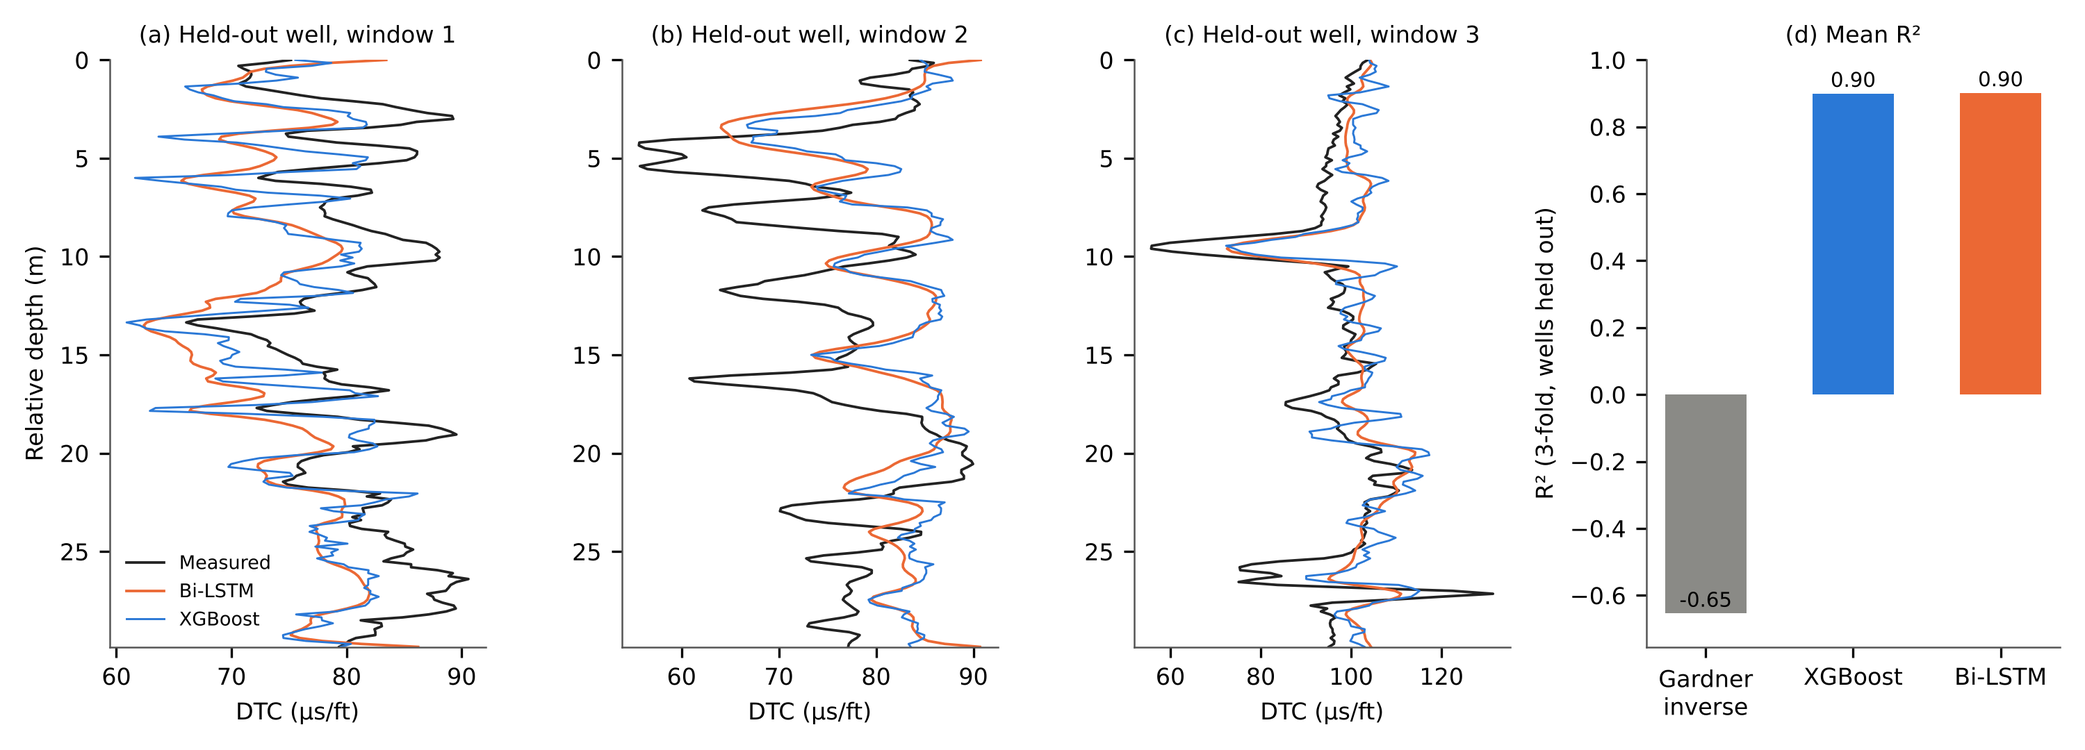
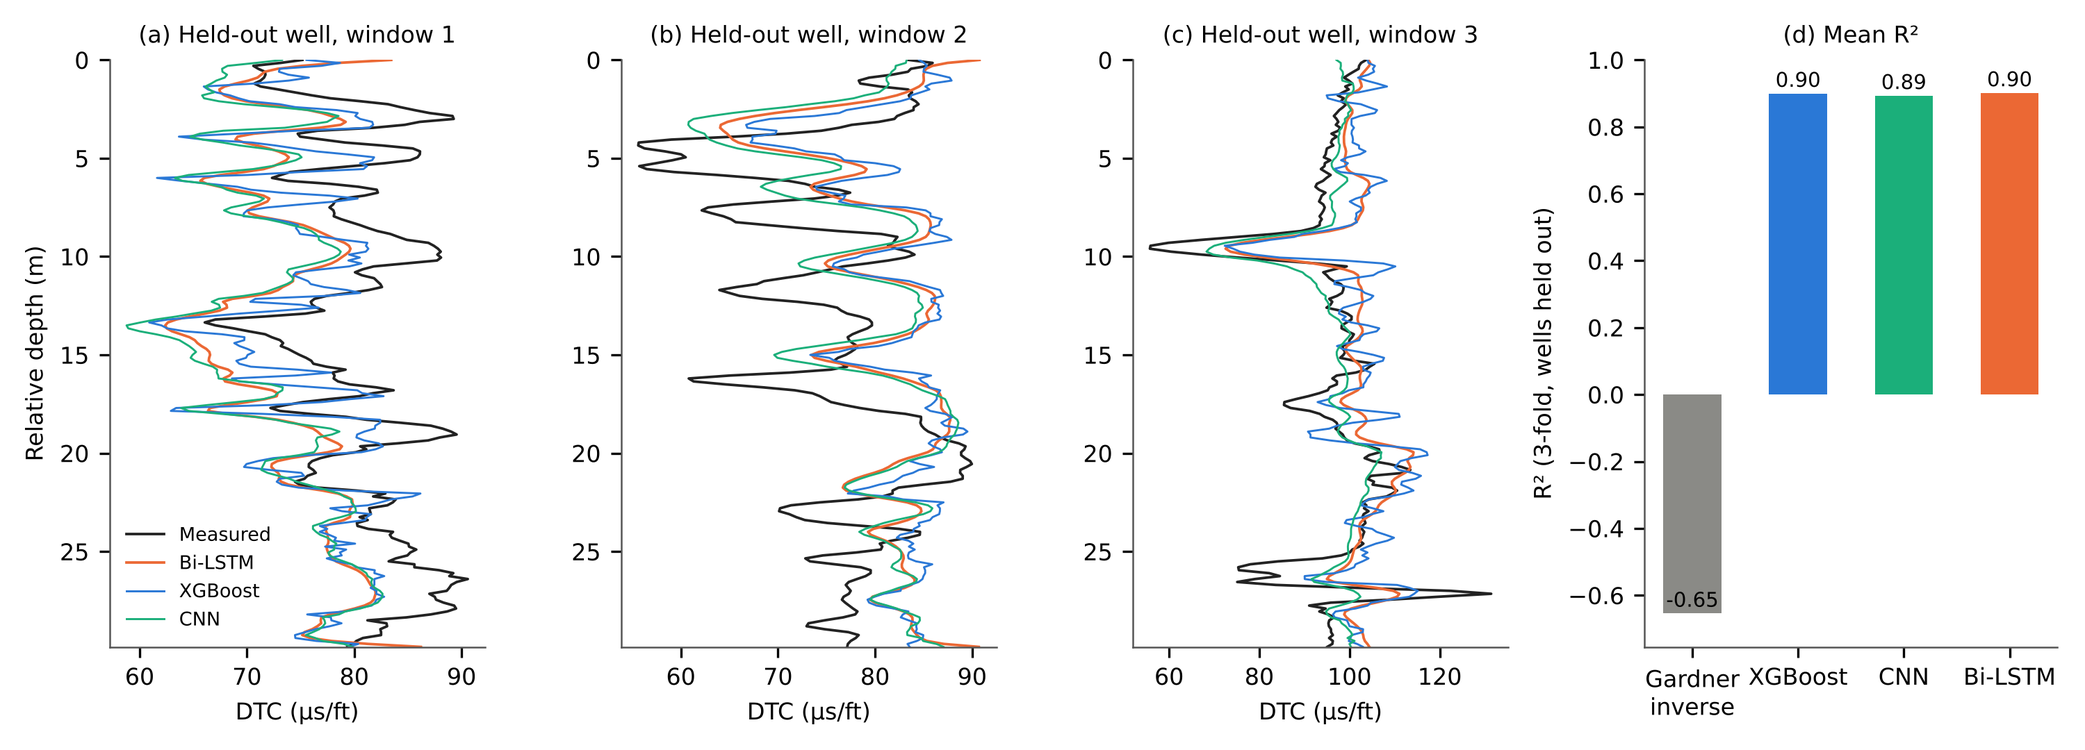
Add CNN comparison, extended geomechanics and gas diagnostics scripts
CNN on the same windows and folds as the Bi-LSTM; dynamic moduli, shale
strength, horizontal stress and a vertical-well stability window with a
calliper check; extra gas diagnostics for the field well (private inputs).

Claude-Session: https://claude.ai/code/session_017aLqqGBvHGsYSkXqifRvt4

diff --git a/scripts/09_geomechanics_extended.py b/scripts/09_geomechanics_extended.py
@@ -1,0 +1,129 @@
+"""Extended geomechanics for the eight eligible open wells: dynamic elastic moduli, empirical strength,
+horizontal stress, frictional-limit check and a vertical-well stability window.
+Input: geomech_all_wells.csv (written by the pore-pressure/fracture-gradient script).
+Everything here is an estimate from empirical relations; nothing is calibrated to core or leak-off data."""
+import json
+import numpy as np
+import pandas as pd
+
+from paths import RESULTS as W, DATA, PRIVATE
+d = pd.read_csv(W + 'geomech_all_wells.csv')
+G_ACC = 0.00981            # MPa per metre per SG
+MU = 0.6                   # sliding friction coefficient for the frictional-limit check (Byerlee-type value)
+Q_F = (np.sqrt(MU ** 2 + 1) + MU) ** 2        # about 3.12
+
+# ---- inputs: measured shear slowness where present, ML shear slowness elsewhere
+d['rho'] = d.RHOB.where(d.RHOB.between(1.5, 3.2)).fillna(d.RHOB_ml)
+d['dts'] = d.DTS.where(d.DTS.between(70, 500)).fillna(d.DTS_ml)
+d['shear_src'] = np.where(d.DTS.between(70, 500), 'measured', 'ML')
+ok = d.rho.notna() & d.dts.notna() & d.DTC.between(40, 200)
+d = d[ok].copy()
+d['vp'] = 304800.0 / d.DTC           # m/s  (slowness in us/ft)
+d['vs'] = 304800.0 / d.dts
+d = d[d.vp > d.vs * np.sqrt(4 / 3)]  # physically admissible: Vp^2 > 4/3 Vs^2
+rho = d.rho * 1000.0                 # kg/m3
+d['G'] = rho * d.vs ** 2 / 1e9       # GPa
+d['K'] = rho * (d.vp ** 2 - 4 / 3 * d.vs ** 2) / 1e9
+d['E'] = 9 * d.K * d.G / (3 * d.K + d.G)
+d['nu'] = (3 * d.K - 2 * d.G) / (2 * (3 * d.K + d.G))
+
+# ---- empirical strength (shale only; GR > 75 API)
+vp_kms = d.vp / 1000.0
+shale = d.GR > 75
+d['UCS'] = np.where(shale, 0.77 * vp_kms ** 2.93, np.nan)                  # MPa, Horsrud (2001) shale relation
+d['phi'] = np.where(shale, np.degrees(np.arcsin((vp_kms - 1) / (vp_kms + 1))), np.nan)  # Lal (1999) shale friction angle
+
+# ---- stresses, in SG-equivalent gradients (measured depth taken as vertical depth)
+D = d.DEPTH_MD
+sv, pp = d.OBG, d.PPG
+nu_use = d.nu_meas.fillna(d.nu_ml)
+d['shmin'] = pp + nu_use / (1 - nu_use) * (sv - pp)          # poroelastic, no tectonic strain, Biot coefficient 1
+d['shmin_lim'] = pp + (sv - pp) / Q_F                         # lowest Shmin that frictional faulting allows
+d['crit'] = d.shmin < d.shmin_lim
+d['eff_sv'] = sv - pp                                         # Terzaghi effective vertical stress, SG
+
+# ---- vertical-well stability window, isotropic horizontal stress (SHmax = Shmin), tensile strength zero
+ucs_sg = d.UCS / (G_ACC * D)
+q = np.tan(np.radians(45 + d.phi / 2)) ** 2
+d['collapse'] = (2 * d.shmin - ucs_sg - (1 - q) * pp) / (1 + q)
+d['frac_init'] = 2 * d.shmin - pp
+d['collapse'] = d.collapse.clip(lower=pp)                     # a collapse limit below pore pressure is not meaningful
+
+rows = []
+for w, g in d.groupby('WELL'):
+    s = g[g.PPG.notna()]
+    r = dict(well=w, n=int(len(g)), n_meas_shear=int((g.shear_src == 'measured').sum()),
+             E_med=float(g.E.median()), G_med=float(g.G.median()), K_med=float(g.K.median()), nu_med=float(g.nu.median()),
+             ucs_med=float(g.UCS.median()), phi_med=float(g.phi.median()),
+             n_stress=int(len(s)))
+    if len(s) > 200:
+        mw = s[s.MUDWEIGHT.between(0.9, 2.6)]
+        r.update(shmin_med=float(s.shmin.median()), crit_pct=float(100 * s.crit.mean()),
+                 collapse_med=float(s.collapse.median()) if s.collapse.notna().any() else np.nan,
+                 frac_med=float(s.frac_init.median()))
+        m2 = mw[mw.collapse.notna()]
+        if len(m2) > 50:
+            r.update(n_mw=int(len(m2)), mw_above_collapse=float(100 * (m2.MUDWEIGHT >= m2.collapse).mean()),
+                     mw_below_frac=float(100 * (m2.MUDWEIGHT <= m2.frac_init).mean()),
+                     mw_in_window=float(100 * ((m2.MUDWEIGHT >= m2.collapse) & (m2.MUDWEIGHT <= m2.frac_init)).mean()))
+    rows.append(r)
+tab = pd.DataFrame(rows)
+tab.to_csv(W + 'geomech_ext_perwell.csv', index=False)
+print(tab.round(2).to_string())
+summ = dict(frictional_ratio=float(Q_F), mu=MU, n_samples=int(len(d)), n_wells=int(d.WELL.nunique()),
+            overall_crit_pct=float(100 * d[d.PPG.notna()].crit.mean()),
+            E_p5_p95=[float(d.E.quantile(.05)), float(d.E.quantile(.95))], nu_p5_p95=[float(d.nu.quantile(.05)), float(d.nu.quantile(.95))])
+json.dump(summ, open(W + 'geomech_ext_summary.json', 'w'), indent=1)
+print(summ)
+d.to_csv(W + 'geomech_ext_samples.csv', index=False)
+
+
+# ---- caliper check (wells with bit size, mud weight and a collapse estimate): does the margin predict hole enlargement?
+from scipy.stats import spearmanr
+m = d.PPG.notna() & d.collapse.notna() & d.MUDWEIGHT.between(0.9, 2.6) & d.CALI.between(4, 40) & d.BS.between(4, 40)
+s = d[m].copy(); s['enl'] = s.CALI - s.BS; s['margin'] = s.MUDWEIGHT - s.collapse
+cal = {}
+for w, g in s.groupby('WELL'):
+    rr, pv = spearmanr(g.margin, g.enl)
+    cal[w] = dict(n=int(len(g)), spearman=float(rr), p=float(pv), enl_below=float(g[g.margin < 0].enl.median()), enl_above=float(g[g.margin >= 0].enl.median()),
+                  n_below=int((g.margin < 0).sum()), n_above=int((g.margin >= 0).sum()))
+# the margin is tied to depth through the stepped mud weight, so also look inside intervals of constant mud weight
+s = s.sort_values(['WELL', 'DEPTH_MD'])
+s['mwstep'] = (s.MUDWEIGHT.diff().abs() > 1e-6).cumsum()
+steps = [spearmanr(g.margin, g.enl)[0] for _, g in s.groupby('mwstep') if len(g) > 200]
+for w in cal:
+    gg = s[s.WELL == w]
+    cal[w].update(depth_corr_margin=float(spearmanr(gg.DEPTH_MD, gg.margin)[0]), depth_corr_enl=float(spearmanr(gg.DEPTH_MD, gg.enl)[0]),
+                  step_rho=[float(x) for x in steps], step_rho_median=float(np.median(steps)), n_steps=len(steps))
+json.dump(cal, open(W + 'geomech_ext_caliper.json', 'w'), indent=1)
+print(cal)
+
+# ---- figure for the well with measured shear slowness
+import matplotlib
+matplotlib.use('Agg')
+import matplotlib.pyplot as plt
+BLUE, ORANGE, AQUA, YELLOW, MAGENTA, GREEN, INK, GREY = '#2a78d6', '#eb6834', '#1baf7a', '#eda100', '#e87ba4', '#008300', '#222222', '#8a8a86'
+plt.rcParams.update({'font.size': 8, 'axes.linewidth': 0.6, 'font.family': 'DejaVu Sans'})
+rep = json.load(open(W + 'geomech_summary.json'))['rep_well']
+g = d[d.WELL == rep].sort_values('DEPTH_MD')
+z = g.DEPTH_MD.values
+fig, ax = plt.subplots(1, 7, figsize=(11, 8.4), sharey=True, gridspec_kw={'width_ratios': [1, 1.1, 1, 1, 1.2, 1.2, 1]})
+ax[0].plot(g.GR, z, color=GREEN, lw=0.6); ax[0].set_xlim(0, 200); ax[0].axvline(75, color=GREY, lw=0.6, ls=':'); ax[0].set_title('GR (API)', fontsize=8)
+for col, c, lab in [('E', BLUE, "Young's E"), ('G', ORANGE, 'Shear G'), ('K', AQUA, 'Bulk K')]:
+    ax[1].plot(g[col], z, color=c, lw=0.6, label=lab)
+ax[1].set_xlim(0, 60); ax[1].legend(frameon=False, fontsize=6.5, loc='lower right'); ax[1].set_title('Dynamic moduli\n(GPa)', fontsize=8)
+ax[2].scatter(g.UCS, z, s=1.2, color=MAGENTA, lw=0); ax[2].set_xlim(0, 60); ax[2].set_title('UCS, shale\n(MPa)', fontsize=8)
+ax[3].scatter(g.phi, z, s=1.2, color=YELLOW, lw=0); ax[3].set_xlim(10, 45); ax[3].set_title('Friction angle,\nshale (°)', fontsize=8)
+ax[4].plot(g.OBG, z, color=GREY, lw=0.8, label='Overburden'); ax[4].plot(g.shmin, z, color=BLUE, lw=0.6, label='Shmin (Eaton)')
+ax[4].plot(g.shmin_lim, z, color=ORANGE, lw=0.6, label='Frictional lower limit'); ax[4].plot(g.PPG, z, color=AQUA, lw=0.6, label='Pore pressure')
+ax[4].set_xlim(0.9, 2.4); ax[4].legend(frameon=False, fontsize=6, loc='lower left'); ax[4].set_title('Stress gradients\n(SG)', fontsize=8)
+ax[5].plot(g.collapse, z, color=ORANGE, lw=0.6, label='Collapse'); ax[5].plot(g.PPG, z, color=AQUA, lw=0.6, label='Pore pressure')
+ax[5].plot(g.MUDWEIGHT, z, color=INK, lw=0.9, label='Mud weight used'); ax[5].set_xlim(0.9, 2.0); ax[5].legend(frameon=False, fontsize=6, loc='lower left')
+ax[5].set_title('Stability window,\nvertical well (SG)', fontsize=8)
+ax[6].plot((g.CALI - g.BS), z, color=INK, lw=0.5); ax[6].axvline(0, color=GREY, lw=0.6, ls=':'); ax[6].set_xlim(-1, 6); ax[6].set_title('Caliper minus\nbit size (in)', fontsize=8)
+ax[0].set_ylim(z.max(), z.min()); ax[0].set_ylabel('Measured depth (m)')
+for a in ax:
+    a.grid(color='#dddddd', lw=0.4)
+    for sp in ('top', 'right'): a.spines[sp].set_visible(False)
+plt.tight_layout(); plt.savefig(W + 'figs/fig_geomech_extended.png', dpi=300); plt.close()
+print('fig ok')

diff --git a/scripts/10_field_gas_diagnostics.py b/scripts/10_field_gas_diagnostics.py
@@ -1,0 +1,57 @@
+"""Extra gas diagnostics for the onshore well: ROP-normalised gas, isomer ratios, Bernard parameter, Pixler ordering.
+Reads field_processed.csv and field_formation_summary.csv written by field_case.py (private)."""
+import json
+import numpy as np
+import pandas as pd
+import matplotlib
+matplotlib.use('Agg')
+import matplotlib.pyplot as plt
+
+from paths import RESULTS as W, DATA, PRIVATE
+BLUE, ORANGE, AQUA, YELLOW, INK, GREY = '#2a78d6', '#eb6834', '#1baf7a', '#eda100', '#222222', '#8a8a86'
+plt.rcParams.update({'font.size': 8, 'axes.linewidth': 0.6, 'font.family': 'DejaVu Sans'})
+d = pd.read_csv(PRIVATE + 'field_processed.csv'); t = pd.read_csv(W + 'field_formation_summary.csv')
+d['formation'] = ''
+for _, r in t.iterrows():
+    d.loc[(d.md >= r.top_md) & (d.md < r.base_md), 'formation'] = r.formation
+for c in ['ic4', 'nc4', 'ic5', 'nc5', 'c1', 'c2', 'c3']:
+    d[c] = d[c].fillna(0)
+d['c4'] = d.ic4 + d.nc4; d['c5'] = d.ic5 + d.nc5
+rop_ref = float(d.loc[d['show'], 'rop'].median())
+d['tg_norm'] = d.tg * rop_ref / d.rop.clip(lower=0.5)               # gas scaled to a common penetration rate
+d['ic4nc4'] = d.ic4 / d.nc4.replace(0, np.nan); d['ic5nc5'] = d.ic5 / d.nc5.replace(0, np.nan)
+d['c2c3'] = d.c2 / d.c3.replace(0, np.nan); d['bern'] = d.c1 / (d.c2 + d.c3)
+r2 = d.c1 / d.c2.replace(0, np.nan); r3 = d.c1 / d.c3.replace(0, np.nan); r4 = d.c1 / d.c4.replace(0, np.nan); r5 = d.c1 / d.c5.replace(0, np.nan)
+d['pixler_ok'] = (r2 < r3) & (r3 < r4) & (r4 < r5)
+d['pixler_ok_345'] = (r2 < r3) & (r3 < r4)
+s = d[d['show']].copy()
+forms = [f for f in ['Lockhart', 'Hangu', 'Lumshiwal', 'Chichali'] if (s.formation == f).any()]
+rows = []
+for f in forms:
+    z = s[s.formation == f]
+    c5ok = z.c5 > 0
+    rows.append(dict(formation=f, n=len(z), tgn_med=z.tg_norm.median(), ic4nc4=z.ic4nc4.median(), ic5nc5=z.ic5nc5.median(),
+                     c2c3=z.c2c3.median(), bern=z.bern.median(), pix_ok=100 * z.pixler_ok.mean()))
+tab = pd.DataFrame(rows); tab.to_csv(W + 'field_gas_diag.csv', index=False); print(tab.round(2).to_string())
+stats = dict(rop_ref=rop_ref, bern_all_med=float(s.bern.median()), bern_min=float(s.bern.min()), bern_max=float(s.bern.max()),
+             ic4nc4_gt1_pct=float(100 * (s.ic4nc4 > 1).mean()), c2c3_gt1_pct=float(100 * (s.c2c3 > 1).mean()),
+             pix_ok_345_pct=float(100 * s.pixler_ok_345.mean()), pix_ok_all_pct=float(100 * s.pixler_ok.mean()),
+             tgn_max_over_tg_max=float(s.tg_norm.max() / s.tg.max()), n=int(len(s)),
+             corr_tg_rop=float(s[['tg', 'rop']].corr(method='spearman').iloc[0, 1]), corr_tgn_rop=float(s[['tg_norm', 'rop']].corr(method='spearman').iloc[0, 1]))
+json.dump(stats, open(W + 'field_gas_diag.json', 'w'), indent=1); print(stats)
+
+fig, ax = plt.subplots(1, 4, figsize=(11, 4.2), gridspec_kw={'width_ratios': [1.2, 1, 1, 1]})
+sec = d[(d.md >= 3480) & (d.md <= d.md.max())]
+ax[0].plot(sec.tg, sec.md, color=GREY, lw=0.7, label='Total gas'); ax[0].plot(sec.tg_norm, sec.md, color=BLUE, lw=0.7, label=f'ROP-normalised (to {rop_ref:.0f} m/h)')
+ax[0].set_xscale('log'); ax[0].set_xlim(0.03, 50); ax[0].invert_yaxis(); ax[0].set_ylabel('Measured depth (m)'); ax[0].set_xlabel('Gas (%)'); ax[0].legend(frameon=False, fontsize=6.5, loc='lower left')
+ax[0].set_title('(a) Raw and normalised gas', fontsize=8.5)
+cols = dict(zip(forms, [BLUE, ORANGE, AQUA, YELLOW]))
+for k, (col, lab, ttl) in enumerate([('ic4nc4', 'iC4 / nC4', '(b) Butane isomers'), ('ic5nc5', 'iC5 / nC5', '(c) Pentane isomers'), ('bern', 'C1 / (C2 + C3)', '(d) Bernard parameter')], start=1):
+    data = [s.loc[s.formation == f, col].dropna().values for f in forms]
+    bp = ax[k].boxplot(data, widths=0.5, patch_artist=True, showfliers=False, medianprops=dict(color=INK, lw=1))
+    for patch, f in zip(bp['boxes'], forms): patch.set(facecolor=cols[f], alpha=0.55, lw=0.6)
+    ax[k].set_xticks(range(1, len(forms) + 1)); ax[k].set_xticklabels([f[:5] + '.' if len(f) > 6 else f for f in forms], fontsize=7); ax[k].set_ylabel(lab); ax[k].set_title(ttl, fontsize=8.5)
+ax[3].axhline(100, color=INK, lw=0.6, ls=':'); ax[3].text(0.6, 104, 'thermogenic below ~100', fontsize=6.5); ax[3].set_yscale('log'); ax[3].set_ylim(1, 1500)
+for a in ax:
+    for sp in ('top', 'right'): a.spines[sp].set_visible(False)
+plt.tight_layout(); plt.savefig(W + 'figs/fig_field_gas_diag.png', dpi=300); plt.close()

diff --git a/scripts/03b_cnn_dtc.py b/scripts/03b_cnn_dtc.py
@@ -1,0 +1,75 @@
+"""Experiment C2: 1-D CNN reconstruction of the compressional sonic log (DTC) from GR, RHOB, NPHI,
+resistivity and depth. Test wells are never seen in training (3-fold leave-wells-out)."""
+import json, time
+import numpy as np, pandas as pd, torch, torch.nn as nn
+from sklearn.model_selection import GroupKFold
+from sklearn.metrics import r2_score, mean_absolute_error, mean_squared_error
+import xgboost as xgb
+
+torch.manual_seed(0); np.random.seed(0); torch.set_num_threads(2)
+from paths import RESULTS as W, DATA, PRIVATE
+df = pd.read_csv(DATA + 'train.csv', sep=';', usecols=['WELL', 'DEPTH_MD', 'GR', 'RHOB', 'NPHI', 'DTC', 'RDEP', 'DRHO'])
+df['LRDEP'] = np.log10(df.RDEP.clip(lower=0.01))
+df = df.dropna(subset=['GR', 'RHOB', 'NPHI', 'DTC', 'LRDEP'])
+df = df[df.RHOB.between(1.5, 3.2) & df.DTC.between(40, 200) & (df.DRHO.abs().fillna(0) < 0.15)]
+feats = ['GR', 'RHOB', 'NPHI', 'LRDEP', 'DEPTH_MD']
+wells = df.WELL.unique()
+print('wells with all five logs:', len(wells), 'rows', len(df), flush=True)
+
+L = 200   # window length in samples (~30 m at 0.15 m spacing)
+
+def windows(d, stride):
+    Xs, ys, ws = [], [], []
+    for w, grp in d.groupby('WELL'):
+        a = grp.sort_values('DEPTH_MD')
+        x, t = a[feats].values.astype(np.float32), a.DTC.values.astype(np.float32)
+        for i in range(0, len(a) - L, stride):
+            Xs.append(x[i:i + L]); ys.append(t[i:i + L]); ws.append(w)
+    return np.array(Xs), np.array(ys), np.array(ws)
+
+class CNN1D(nn.Module):
+    """Dilated 1-D convolutions; receptive field about 60 samples."""
+    def __init__(self, n_in):
+        super().__init__()
+        layers, c = [], n_in
+        for dil in (1, 2, 4, 8):
+            layers += [nn.Conv1d(c, 48, 5, padding=2 * dil, dilation=dil), nn.ReLU()]
+            c = 48
+        self.net = nn.Sequential(*layers)
+        self.head = nn.Conv1d(48, 1, 1)
+    def forward(self, x):
+        return self.head(self.net(x.transpose(1, 2))).squeeze(1)
+
+gkf = GroupKFold(n_splits=3)
+res = []
+t0 = time.time()
+for fold, (tr_i, te_i) in enumerate(gkf.split(wells, groups=wells)):
+    trw, tew = wells[tr_i], wells[te_i]
+    dtr, dte = df[df.WELL.isin(trw)], df[df.WELL.isin(tew)]
+    mu, sd = dtr[feats].mean().values.astype(np.float32), dtr[feats].std().values.astype(np.float32)
+    tm, ts = float(dtr.DTC.mean()), float(dtr.DTC.std())
+    Xtr, ytr, _ = windows(dtr, 100)
+    Xte, yte, wte = windows(dte, 200)
+    rs = np.random.RandomState(fold)
+    if len(Xtr) > 5000:
+        k = rs.choice(len(Xtr), 5000, replace=False); Xtr, ytr = Xtr[k], ytr[k]
+    Xn = torch.tensor((Xtr - mu) / sd); yn = torch.tensor((ytr - tm) / ts)
+    model = CNN1D(len(feats)); opt = torch.optim.Adam(model.parameters(), 2e-3); lossf = nn.MSELoss()
+    for ep in range(10):
+        perm = torch.randperm(len(Xn)); tot = 0
+        for b in range(0, len(Xn), 64):
+            idx = perm[b:b + 64]
+            opt.zero_grad(); l = lossf(model(Xn[idx]), yn[idx]); l.backward(); opt.step(); tot += l.item() * len(idx)
+        print(f' fold {fold} epoch {ep} train mse {tot / len(Xn):.4f}', flush=True)
+    model.eval()
+    with torch.no_grad():
+        p = model(torch.tensor((Xte - mu) / sd)).numpy() * ts + tm
+    res.append(dict(r2=r2_score(yte.ravel(), p.ravel()), mae=mean_absolute_error(yte.ravel(), p.ravel()),
+                    rmse=mean_squared_error(yte.ravel(), p.ravel()) ** 0.5))
+    print(fold, {a: round(b, 3) for a, b in res[-1].items()}, 'elapsed', round(time.time() - t0), flush=True)
+    if fold == 0:
+        np.save(W + 'cnn_fold0_pred.npy', p)
+
+out = {m: float(np.mean([r[m] for r in res])) for m in ['r2', 'mae', 'rmse']} | {'r2_by_fold': [r['r2'] for r in res]}
+json.dump(out, open(W + 'cnn_metrics.json', 'w'), indent=1)
+print(json.dumps(out, indent=1))

diff --git a/scripts/06_make_figures.py b/scripts/06_make_figures.py
@@ -1,4 +1,3 @@
-import os
 """Figures for the manuscript, built only from saved experiment outputs."""
 import json
 import numpy as np
@@ -8,7 +7,7 @@ import matplotlib.pyplot as plt
 from matplotlib.patches import FancyBboxPatch, FancyArrowPatch
 from sklearn.metrics import r2_score
 
-from paths import RESULTS as W, DATA
+from paths import RESULTS as W, DATA, PRIVATE
 O = W + 'figs/'
 BLUE, ORANGE, AQUA, YELLOW, MAGENTA, GREEN = '#2a78d6', '#eb6834', '#1baf7a', '#eda100', '#e87ba4', '#008300'
 INK, GREY = '#222222', '#8a8a86'
@@ -80,20 +79,20 @@ plt.tight_layout(); plt.savefig(O + 'fig3_reconstruction.png', dpi=300); plt.clo
 
 # ------------------------------------------------ Fig 4: Bi-LSTM
 try:
-    bm = json.load(open(W + 'bilstm_metrics.json')); z = np.load(W + 'bilstm_fold0.npz')
+    bm = json.load(open(W + 'bilstm_metrics.json')); z = np.load(W + 'bilstm_fold0.npz'); cn = json.load(open(W + 'cnn_metrics.json')); cp = np.load(W + 'cnn_fold0_pred.npy')
     fig, ax = plt.subplots(1, 4, figsize=(10, 3.6), gridspec_kw={'width_ratios': [1, 1, 1, 1.1]})
     rng = np.random.RandomState(3); idx = rng.choice(len(z['y']), 3, replace=False)
     for k, i in enumerate(idx):
         depth = np.arange(z['y'].shape[1]) * 0.15
         a = ax[k]; a.plot(z['y'][i], depth, color=INK, lw=0.9, label='Measured'); a.plot(z['lstm'][i], depth, color=ORANGE, lw=0.9, label='Bi-LSTM')
-        a.plot(z['xgb'][i], depth, color=BLUE, lw=0.7, label='XGBoost'); a.set_ylim(depth.max(), 0); a.set_xlabel('DTC (µs/ft)')
+        a.plot(z['xgb'][i], depth, color=BLUE, lw=0.7, label='XGBoost'); a.plot(cp[i], depth, color=AQUA, lw=0.7, label='CNN'); a.set_ylim(depth.max(), 0); a.set_xlabel('DTC (µs/ft)')
         a.set_title(f'({"abc"[k]}) Held-out well, window {k + 1}', fontsize=8)
         if k == 0: a.set_ylabel('Relative depth (m)'); a.legend(frameon=False, fontsize=6.5, loc='lower left')
         for s in ('top', 'right'): a.spines[s].set_visible(False)
-    keys = ['Gardner-inverse baseline', 'XGBoost (point-wise)', 'BiLSTM']; labs = ['Gardner\ninverse', 'XGBoost', 'Bi-LSTM']
-    r = [bm[k]['r2'] for k in keys]; ax[3].bar(range(3), r, color=[GREY, BLUE, ORANGE], width=0.55)
+    keys = ['Gardner-inverse baseline', 'XGBoost (point-wise)', 'BiLSTM']; labs = ['Gardner\ninverse', 'XGBoost', 'CNN', 'Bi-LSTM']
+    r = [bm[keys[0]]['r2'], bm[keys[1]]['r2'], cn['r2'], bm[keys[2]]['r2']]; ax[3].bar(range(4), r, color=[GREY, BLUE, AQUA, ORANGE], width=0.55)
     for i, v in enumerate(r): ax[3].text(i, v + 0.02, f'{v:.2f}', ha='center', fontsize=7)
-    ax[3].set_xticks(range(3)); ax[3].set_xticklabels(labs); ax[3].set_ylabel('R² (3-fold, wells held out)'); ax[3].set_title('(d) Mean R²', fontsize=8)
+    ax[3].set_xticks(range(4)); ax[3].set_xticklabels(labs); ax[3].set_ylabel('R² (3-fold, wells held out)'); ax[3].set_title('(d) Mean R²', fontsize=8)
     ax[3].set_ylim(min(0, min(r) - 0.1), 1)
     for s in ('top', 'right'): ax[3].spines[s].set_visible(False)
     plt.tight_layout(); plt.savefig(O + 'fig4_bilstm.png', dpi=300); plt.close()

diff --git a/scripts/04_geomechanics_open_wells.py b/scripts/04_geomechanics_open_wells.py
@@ -1,4 +1,3 @@
-import os
 """Geomechanics chain on held-out FORCE 2020 wells.
 For every eligible well the density and shear-slowness models are trained on the other wells only. Overburden, Eaton
 pore pressure and Eaton fracture gradient are then computed with the corrected equations. The open data contain no
@@ -14,7 +13,7 @@ import xgboost as xgb
 from scipy.stats import theilslopes, spearmanr
 from sklearn.metrics import r2_score, mean_absolute_error
 
-from paths import RESULTS as W, DATA
+from paths import RESULTS as W, DATA, PRIVATE
 BLUE, ORANGE, AQUA, YELLOW, MAGENTA, GREEN = '#2a78d6', '#eb6834', '#1baf7a', '#eda100', '#e87ba4', '#008300'
 INK, GREY = '#222222', '#8a8a86'
 plt.rcParams.update({'font.size': 8, 'axes.linewidth': 0.6, 'axes.edgecolor': '#555555', 'font.family': 'DejaVu Sans'})
@@ -118,6 +117,8 @@ for wl in wells:
     wd, r = run_well(wl)
     rows.append(r); store[wl] = wd
     print(json.dumps({k: (round(v, 3) if isinstance(v, float) else v) for k, v in r.items()}), flush=True)
+cols_keep = ['WELL', 'DEPTH_MD', 'GR', 'RHOB', 'RHOB_ml', 'RHOB_use', 'DTC', 'DTS', 'DTS_ml', 'nu_meas', 'nu_ml', 'OBG', 'OBG_meas', 'OBG_ml', 'PPG', 'FG_ml', 'MUDWEIGHT', 'NPHI', 'CALI', 'BS']
+pd.concat([store[k][[c for c in cols_keep if c in store[k].columns]] for k in store]).to_csv(W + 'geomech_all_wells.csv', index=False)
 tab = pd.DataFrame(rows)
 tab.to_csv(W + 'geomech_perwell.csv', index=False)
 good = tab[tab.trend_ok & (tab.n_mw > 500) & (tab.dts_n > 500)]  # measured shear needed so the whole chain (incl. nu) can be checked; criterion added after seeing the per-well table

diff --git a/README.md b/README.md
@@ -31,11 +31,14 @@ Scripts and what they do:
 | `01_lithology.py` | threshold rules, Random Forest, XGBoost, SVM; five folds split by well |
 | `02_reconstruction.py` | bulk density and shear slowness from other logs; Poisson's ratio |
 | `03_bilstm_dtc.py` | Bi-LSTM versus point-wise XGBoost for compressional slowness |
+| `03b_cnn_dtc.py` | 1-D CNN on the same windows and folds as the Bi-LSTM |
 | `04_geomechanics_open_wells.py` | overburden, Eaton pore pressure and fracture gradient on eligible wells |
 | `05_field_case.py` | d-exponent and Haworth / Pixler gas ratios (needs the private workbook) |
 | `06_make_figures.py` | figures from the saved results |
 | `07_extra_figures.py` | lithology diagnostics and per-well geomechanics figures |
 | `08_field_formation_figure.py` | gas ratios by formation (needs the private field outputs) |
+| `09_geomechanics_extended.py` | dynamic moduli, shale strength, horizontal stress, stability window and calliper check |
+| `10_field_gas_diagnostics.py` | normalised gas, isomer ratios, Bernard parameter, Pixler ordering (private field outputs) |
 
 Expect a few hours for the first three on a two-core machine. The large intermediate arrays are re-created by the scripts and are not stored here.
 
@@ -50,9 +53,9 @@ Lithology, five folds, wells held out, pooled over test folds:
 | XGBoost | 0.710 | 0.321 | 0.345 | -0.76 |
 | SVM (RBF) | 0.527 | 0.384 | 0.304 | -1.23 |
 
-Reconstruction (R squared, pooled over wells held out): density 0.78 (XGBoost), shear slowness 0.90 (MLP); Poisson's ratio from predicted shear slowness, MAE 0.026. Bi-LSTM R squared for DTC 0.90 against 0.90 for XGBoost, so no gain.
+Reconstruction (R squared, pooled over wells held out): density 0.78 (XGBoost), shear slowness 0.90 (MLP); Poisson's ratio from predicted shear slowness, MAE 0.026. CNN R squared for DTC is 0.89; Bi-LSTM R squared for DTC 0.90 against 0.90 for XGBoost, so neither network gives a gain.
 
-The pressure chain has no ground truth in the open data. Results in `results/geomech_perwell.csv` are plausibility checks against the mud weight used.
+The extended geomechanics (script 09) covers dynamic elastic moduli, empirical shale strength, horizontal stress and a vertical-well stability window. Its collapse estimate was checked against calliper enlargement in the one well that allowed it, and did not predict it (see `results/geomech_ext_caliper.json`). The pressure chain has no ground truth in the open data. Results in `results/geomech_perwell.csv` are plausibility checks against the mud weight used.
 
 ## Layout
 
